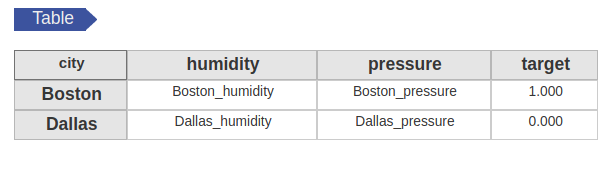
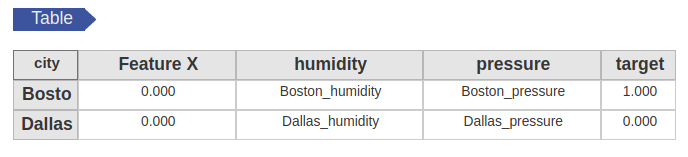
Minor changes on docOperator

diff --git a/doc/tutorials/tuto_addTSColumn.md b/doc/tutorials/tuto_addTSColumn.md
@@ -7,36 +7,37 @@ published: true
 
 # How to "add" a TS inside a `Table`
 
-This tutorial shows a usecase for the [addTSColumn](/doc/operators/addTsColumn.html). Here, the purpose is to fill a `Table` with timeseries. This type of table is used in some machine learning algorithm.
+This tutorial shows a usecase for the [addTSColumn](/doc/operators/addTsColumn.html). Here, the purpose is to fill a `Table` with timeseries. This type of table could be used in some machine learning algorithm.
 
 ## Target
 
-In this tutorial, we use data data from [Previous tutorial](/doc/tutorials/tuto_TS2Feature.html), by default, these data are available in the `Historical_hourly_weather`. To limit the dataset, we just work on two cities (*Boston and Dallas*), and on two features (*humidity and pressure*)<SUP>[1](#create_ds)</SUP>.
+In this tutorial, we use data from [Previous tutorial](/doc/tutorials/tuto_TS2Feature.html), by default, these data are available in the `Historical_hourly_weather`. For pedagogical purpose, we limit the dataset, we just work on two cities (*Boston and Dallas*), and on two features (*humidity and pressure*)<SUP>[1](#create_ds)</SUP>.
 
-We want to add a *target value* to each TS. In other words, we want to obtain this type of data:
+We want to add a *link* to a TS inside a requested `Table`. In other words, we want to obtain this type of data:
 
 ![An example of requested output](/img/tuto_addTSColumn/output.png){: width="800px" class="center"}
 
+*Where `Boston_humidity`, `Boston_pressure`, `Dallas_humidity`, and `Dallas_pressure` are links to TS.*
 ## Build inputs
 
-This type of result is providen by [addTSColumn](/doc/operators/addTsColumn.html)operator. As you know, this operator takes 2 inputs: a `DS_name` (the list of timeserie to *"link"*), and a `Table` (in this case, the table containing column *city* and *target*).
+This type of result is providen by [addTSColumn](/doc/operators/addTsColumn.html) operator. This operator takes 2 inputs: a `DS_name` (the list of timeseries to *"link"*), and a `Table` (in this case, the table containing columns *city* and *target*).
 
 ### `Table`
-First, let's create this table (in a CSV file), and add it into IKATS.
+First, let's create this table (in a CSV file), and read it into IKATS.
 
 Create a csv file containing the requested *city* name, and add a column *target* (representing for example the target value for a machine learning algorithm).
 
->city, target
+>city, Feature X, target
 >
->Dallas, 0
+>Dallas, 0, 0
 >
->Boston, 1
+>Boston,0, 1
 
-Save this table (the path do not import), and use the [Population Selection](/doc/operators/populationSelection.html) operator to load it in IKATS.
+Save this table (the path does not matter), and use the [Population Selection](/doc/operators/populationSelection.html) operator to load it in IKATS.
 
 
 ### <a class="anchor" id="create_ds">`DS name`</a>
-Here is a detail on the workflow to create your `DS name` containing names of the requested TS. If you want more explanation about operations performed here, see this [tutorial](tuto_basics.html).
+Here is a detail on the workflow to create your `DS name` i.e. the name of the `Dataset` (containing the requested list of TS). If you want more explanation about operations performed here, see this [tutorial](tuto_basics.html).
 
 ![DS name creation workflow](/img/tuto_addTSColumn/workflow_create_DS.png){: width="800px" class="center"}
 
@@ -55,13 +56,15 @@ The requested result is provided by `Add TS Column` operator. This section expla
 
 ![parameters used](/img/tuto_addTSColumn/params.png){: width="800px" class="center"}
 
-- **Metrics**: We want to add two columns to the input `Table` object (here, *humidity* ans *pressure*). These columns corresponds to existing `metrics` in the input `Dataset`. *(See [here](/doc/tutorials/tuto_basics.html) to add manually metadata, or operator [import metadata](/doc/operators/importMetadata.html).)*
+- **Metrics**: We want to add two columns to the input `Table` object (here, *humidity* and *pressure*). These columns correspond to existing `metrics` in the input `Dataset`. *(See [here](/doc/tutorials/tuto_basics.html) to add manually metadata, or operator [import metadata](/doc/operators/importMetadata.html).)*
 - **join column names**: Identifier of the row in the input `Table` (here *city*)
-- **join meta name**: A metadata field of the input `Dataset`. Used to join inputs `Dataset` and `Table` (here *city*).
+- **join meta name**: A metadata field of the input `Dataset`.
+
+The two last parameters are used to join inputs `Dataset` and `Table` (here *city*).
 
 *Note that values of **city** corresponds in the input `Dataset` and `Table` (Boston, Dallas).*
 
-- **target column name**: The name of the column to add to result (here column *target*)
+- **target column name**: The name of the column put at last column, for a better visual effect on your `Table`(here column *target*)
 
 
 ### Result

diff --git a/doc/operators/addTsColumn.md b/doc/operators/addTsColumn.md
@@ -6,7 +6,7 @@ published: true
 ---
 # Add TS Column
 
-Add a TS as new column to an existing `Table` (providen in input). More precisely, each cell of these new columns contains one *links* to an unique timeserie.
+Add a TS as new column to an existing `Table` (one of the inputs). More precisely, the cell of these new columns contains one *link* to an unique timeserie.
 
 ## Input and parameters
 
@@ -16,15 +16,15 @@ This operator takes 2 inputs:
 - **DS name** : the dataset that contains TS you want to add (*link*)
 - **Table** : an existing table to modify
 
-This operator takes 5 inputs from the user :
+This operator takes 5 parameters from the user :
 
 - **Metrics** : List of selected metrics of the input `DataFrame` (separated by `;`), columns to add to the input `Table`
 - **Join column name** : Identifier of the row in the inputed `Table`, used by the join
 - **Join meta name** : A metadata field of the input `Dataset`. used by the join (usefull when the column and the metadata are different)
-- **target column name** : Name of the target column, if exist (Supervised Learning purpose)
+- **target column name** : Name of the column put at last column, for a better visual effect on your `Table`. Usualy, corresponds to the target column, if exist (Supervised Learning purpose)
 - **output table name** : name of newly created table
 
-*Note: The operator need to perform a "join" operation between the two inputs (`Dataset` and `Table`). This operation is performed using:*
+*The operator performs a "join" operation between the two inputs (`Dataset` and `Table`), using:*
 - *content of column "Join column name" in the input `Table`*
 - *values of metadata "Join meta name" in the input `DataSet`*
 
@@ -34,7 +34,7 @@ This operator takes 5 inputs from the user :
 
 The operator has 1 output:
 
-- **Table** : The result table
+- **Table** : The result table, containing the full input `Table`, and the new requested columns
 
 The operator will create a `Table` containing *Join column name* values as row names, content of *target column name*, and one column per *Metrics* provided.
 

diff --git a/doc/operators/exportTS.md b/doc/operators/exportTS.md
@@ -1,0 +1,33 @@
+---
+title: Export TS
+date: 2017-09-29 10:00:00 +02:00
+layout: default
+published: true
+---
+# Export TS
+
+Export a `Dataset` in a csv file (or in multiple csv files).
+## Input and parameters
+
+
+This operator takes 1 inputs:
+
+- **DS name** : the name of the `Dataset` to export
+
+
+This operator takes 1 parameter from the user :
+
+- **Destination tree pattern** : Pattern used to build destination tree. You can use metadate name, and 2 more keywords `{DSname}`, and `{fid}`.
+
+*Example: `{DSname}/{qual_nb_points}_{fid}.csv` will create :
+- one directory (named as the name of the input Dataset),
+- one csv file per TS of the input `Dataset`. E.g. *450_PORTFOLIO_EWA*, if the TS contains 450 points (=`{qual_nb_point}`), and  has `PORTFOLIO_EWA` as Functionnal IDentifier (`{fid}`)
+
+## Outputs
+
+The operator has 1 output:
+sudo apt install tree
+- **Path** : Path of the created file(s)
+
+
+Return to the [list of all operators](/operators.html).

diff --git a/concepts.md b/concepts.md
@@ -39,7 +39,7 @@ Each operator uses a set of parameters that the user may define through the `Par
 
 Population
 -----
-A population is, in the learning process, a list of instances (also called individuals ), described according to a list of characteristics (also called variables).
+A population is, in the learning process, a list of observations (also called individuals), described according to a list of characteristics (also called variables, or features).
 In the case of supervised learning, one of these variables is the target, ie, the variable to be explained.
 
 Note :

diff --git a/operators.md b/operators.md
@@ -13,6 +13,7 @@ Operators list..
 > ### Import Export
 - [Import TS](/doc/operators/importTs.html)
 - [Import Metadata](/doc/operators/importMetadata.html)
+- [Export TS](/doc/operators/exportTS.html)
 
 > ### Dataset Management
 - [Dataset Selection](/doc/operators/datasetSelection.html)
